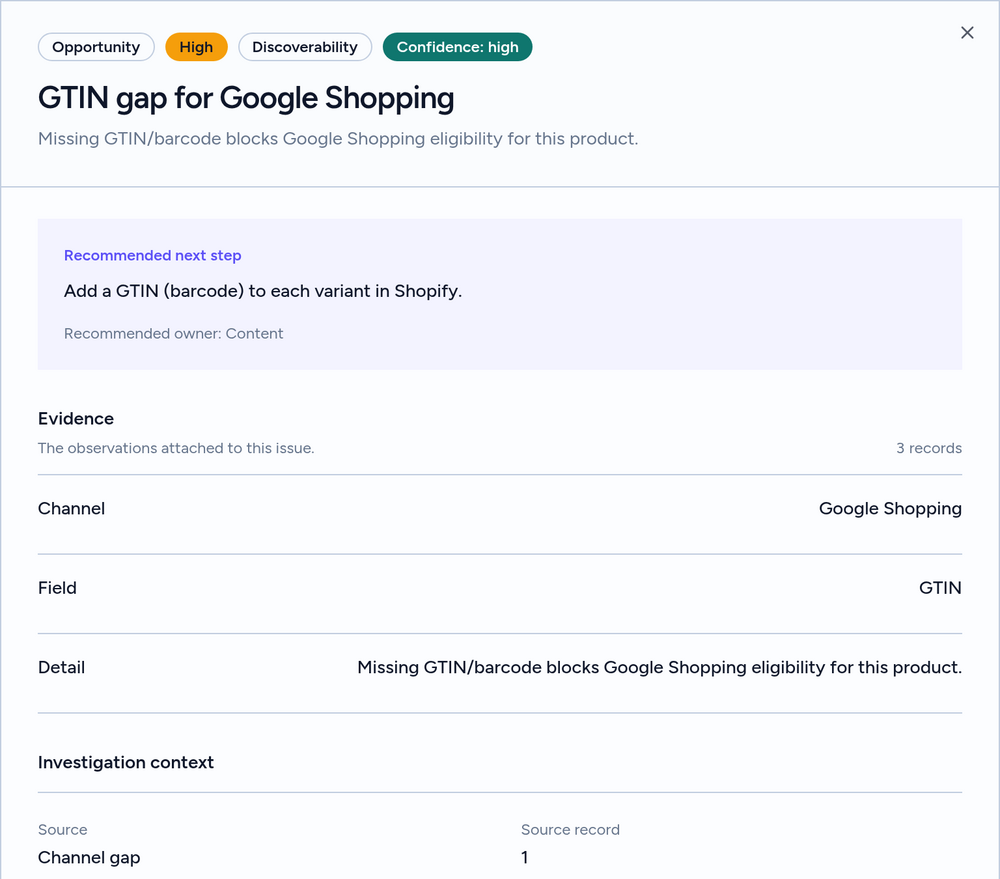
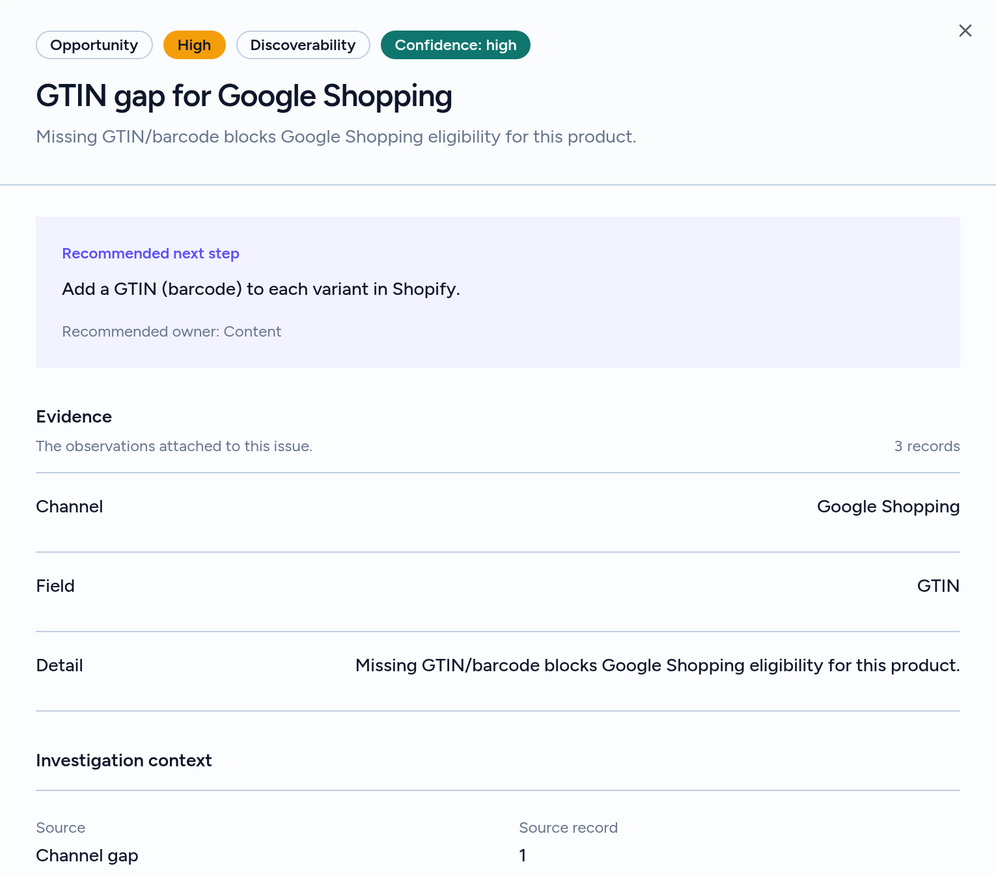
feat: update styles and structure across various sections for improved UI consistency and user experience feat: add HealthDomainsSection component to enhance store health insights fix: adjust background colors and class names for better visual hierarchy fix: refine text content in multiple sections 

diff --git a/src/components/beseam/teams-section.tsx b/src/components/beseam/teams-section.tsx
@@ -1,16 +1,21 @@
+import { Code2, Search, ShoppingCart } from "lucide-react";
+
 import Reveal from "@/components/beseam/reveal";
 
 const ROLES = [
   {
     role: "SEO and content",
+    icon: Search,
     body: "Technical issues, affected products and pages, source freshness and evidence—not another generic score.",
   },
   {
     role: "Ecommerce and operations",
+    icon: ShoppingCart,
     body: "Prioritized health concerns, purchase friction and the monitoring gaps that make a confident answer impossible.",
   },
   {
     role: "Developers and agencies",
+    icon: Code2,
     body: "Reproducible context, affected paths and direct investigation links instead of an unspecific conversion alert.",
   },
 ];
@@ -34,17 +39,18 @@ export default function TeamsSection() {
           </p>
         </Reveal>
 
-        <div className="mt-12 border-t border-rule">
+        <div className="mt-12 grid gap-px border border-rule bg-rule sm:grid-cols-3">
           {ROLES.map((item, index) => (
             <Reveal
               key={item.role}
               delay={index * 0.05}
-              className="grid gap-3 border-b border-rule py-7 md:grid-cols-[minmax(0,0.45fr)_minmax(0,1fr)] md:gap-12"
+              className="bg-panel p-7 shadow-[0_1px_2px_rgba(23,23,27,0.04),0_8px_24px_-16px_rgba(23,23,27,0.18)]"
             >
-              <h3 className="text-[18px] font-semibold text-ink">
+              <item.icon className="h-5 w-5 text-primary" strokeWidth={1.6} />
+              <h3 className="mt-5 text-[18px] font-semibold text-ink">
                 {item.role}
               </h3>
-              <p className="max-w-2xl text-[15px] leading-relaxed text-foreground">
+              <p className="mt-3 text-[15px] leading-relaxed text-foreground">
                 {item.body}
               </p>
             </Reveal>

diff --git a/src/components/beseam/problem-section.tsx b/src/components/beseam/problem-section.tsx
@@ -1,5 +1,8 @@
+import { Globe, Layers, Tag } from "lucide-react";
+
 const CHANGE_PATHS = [
   {
+    icon: Layers,
     change: "Theme or app change",
     quietEffect:
       "Rendered product markup, JavaScript or the add-to-cart handler changes.",
@@ -7,6 +10,7 @@ const CHANGE_PATHS = [
       "Rendered-page verification, storefront errors and affected sessions.",
   },
   {
+    icon: Tag,
     change: "Catalog or metadata change",
     quietEffect:
       "A product identifier, structured field or channel requirement disappears.",
@@ -14,6 +18,7 @@ const CHANGE_PATHS = [
       "Shopify catalog state, channel gap and the affected product record.",
   },
   {
+    icon: Globe,
     change: "Browser, market or payment-path change",
     quietEffect:
       "Only a narrow group of shoppers encounters friction while the store still loads.",
@@ -44,9 +49,15 @@ export default function ProblemSection() {
                 key={path.change}
                 className="grid gap-4 border-b border-rule py-7 sm:grid-cols-[2.4rem_minmax(0,0.8fr)_minmax(0,1fr)] sm:gap-6"
               >
-                <span className="text-[12px] font-semibold tabular-nums text-primary">
-                  0{index + 1}
-                </span>
+                <div className="flex flex-row items-center gap-3 sm:flex-col sm:items-start sm:gap-4">
+                  <path.icon
+                    className="h-5 w-5 text-primary"
+                    strokeWidth={1.6}
+                  />
+                  <span className="text-[12px] font-semibold tabular-nums text-muted-foreground">
+                    0{index + 1}
+                  </span>
+                </div>
                 <div>
                   <h3 className="text-[18px] font-semibold tracking-[-0.015em] text-ink">
                     {path.change}

diff --git a/src/components/beseam/hero-section.tsx b/src/components/beseam/hero-section.tsx
@@ -44,7 +44,7 @@ export default function HeroSection() {
             </span>
           </figcaption>
 
-          <div className="border border-rule bg-panel shadow-[0_1px_2px_rgba(23,23,27,0.04),0_16px_40px_-20px_rgba(23,23,27,0.22)]">
+          <div className="border border-rule bg-panel p-2 shadow-[0_1px_2px_rgba(23,23,27,0.04),0_16px_40px_-20px_rgba(23,23,27,0.22)] sm:p-3">
             <div className="relative hidden aspect-[1800/1141] overflow-hidden bg-[#f8fafc] lg:block">
               <Image
                 src="/images/store-health/overview-desktop.png"

diff --git a/src/components/beseam/evidence-section.tsx b/src/components/beseam/evidence-section.tsx
@@ -102,8 +102,8 @@ export default function EvidenceSection() {
                 <Image
                   src={example.image}
                   alt={example.alt}
-                  width={1000}
-                  height={879}
+                  width={996}
+                  height={875}
                   sizes="(min-width: 1024px) 62vw, 94vw"
                   className="h-auto w-full"
                 />
